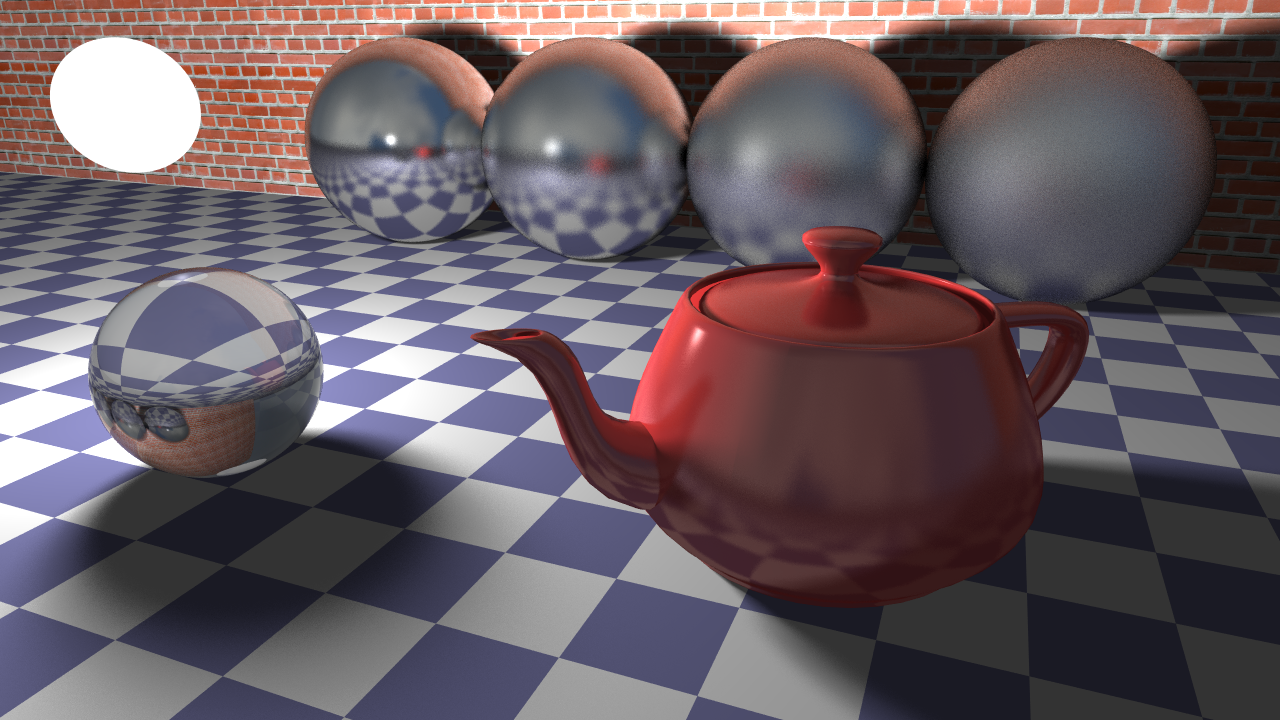
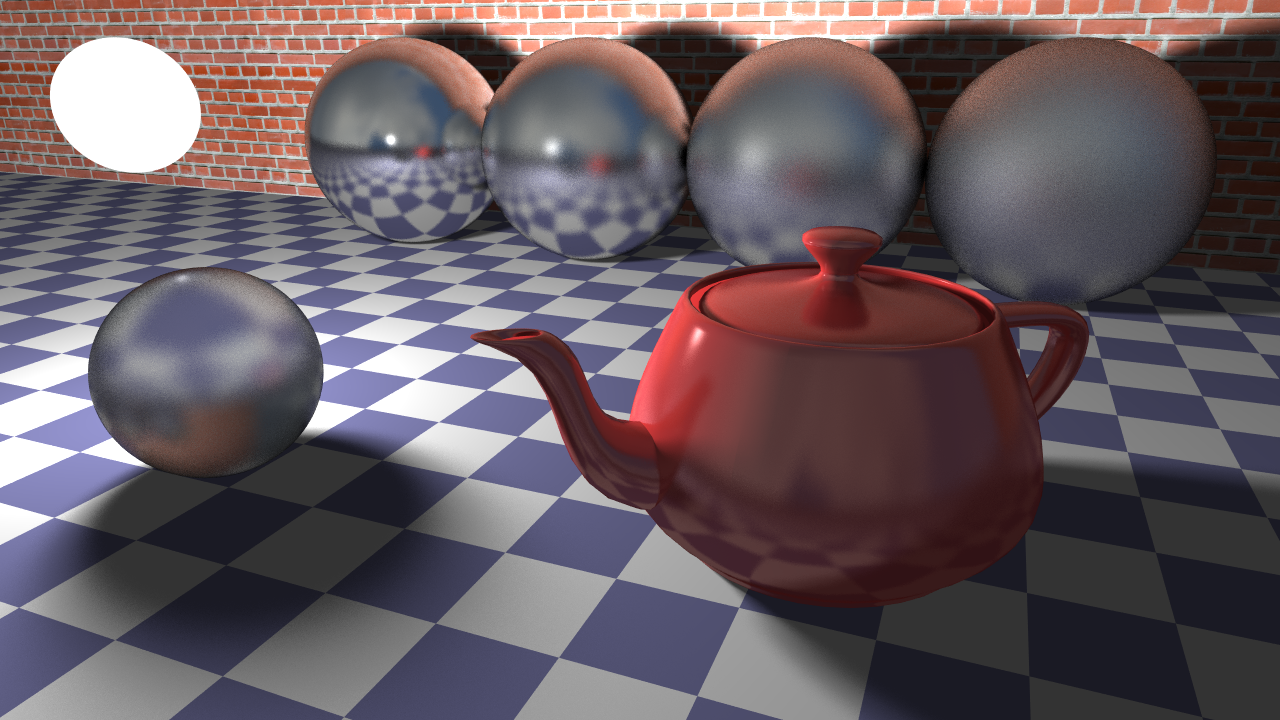
Finished refraction glossiness

Changed region(s): [[0.0625, 0.3667, 0.25, 0.6722]]

diff --git a/src/materials.cpp b/src/materials.cpp
@@ -7,6 +7,28 @@ namespace
 {
     HaltonSeq<static_cast<int>(16)> haltonSeqPhi{ 2 };
     HaltonSeq<static_cast<int>(16)> haltonSeqTheta{ 3 };
+
+    //Vec3f getGlossyReflectionDir(const ShadeInfo& shadeInfo, float glossiness, const Vec3f& normal)
+    //{
+    //    const float phiOffset{ shadeInfo.RandomFloat() };
+    //    const float thetaOffset{ shadeInfo.RandomFloat() };
+
+    //    Vec3f u, v;
+    //    normal.GetOrthonormals(u, v);
+
+    //    const float phi{ 2.0f * M_PI * fmod(haltonSeqPhi[shadeInfo.CurrentPixelSample()] + phiOffset, 1.0f) };
+    //    const float cosTheta{ pow(fmod(haltonSeqTheta[shadeInfo.CurrentPixelSample()] + thetaOffset, 1.0f), 1.0f / (glossiness + 1.0f)) };
+    //    const float sinTheta{ sqrt(1.0f - cosTheta * cosTheta) };
+
+    //    const float x{ sinTheta * cos(phi) };
+    //    const float y{ sinTheta * sin(phi) };
+    //    const float z{ cosTheta };
+
+    //    const Vec3f hLocal{ x, y, z };
+    //    const Vec3f h{ (x * u) + (y * v) + (z * normal) };
+
+    //    return h * 2 * shadeInfo.V().Dot(h) - shadeInfo.V();
+    //}
 }
 
 
@@ -49,12 +71,13 @@ Color MtlBlinn::Shade(ShadeInfo const &shadeInfo) const
     const float thetaOffset{ shadeInfo.RandomFloat() };
     if (reflection.GetValue().Sum() > 0.0f)
     {
+        // **************
+        // Glossiness ray
+        // **************
         Vec3f u, v;
         normal.GetOrthonormals(u, v);
-        Color accumulatedColor{ 0.0f };
-
-        const float phi{ 2.0f * M_PI * fmod(haltonSeqPhi[0] + phiOffset, 1.0f) };
-        const float cosTheta{ pow(fmod(haltonSeqTheta[0] + thetaOffset, 1.0f), 1.0f / (glossiness.GetValue() + 1.0f)) };
+        const float phi{ 2.0f * M_PI * fmod(haltonSeqPhi[shadeInfo.CurrentPixelSample()] + phiOffset, 1.0f) };
+        const float cosTheta{ pow(fmod(haltonSeqTheta[shadeInfo.CurrentPixelSample()] + thetaOffset, 1.0f), 1.0f / (glossiness.GetValue() + 1.0f)) };
         const float sinTheta{ sqrt(1.0f - cosTheta * cosTheta) };
 
         const float x{ sinTheta * cos(phi) };
@@ -84,25 +107,44 @@ Color MtlBlinn::Shade(ShadeInfo const &shadeInfo) const
     if (refraction.GetValue().Sum() > 0.0f)
     {
         const Vec3f N{ shadeInfo.IsFront() ? normal : -normal };
-        const float viewDotN{ shadeInfo.V().Dot(N) };
+
+        Vec3f u, v;
+        N.GetOrthonormals(u, v);
+        float dist;
+        const float phi{ 2.0f * M_PI * fmod(haltonSeqPhi[shadeInfo.CurrentPixelSample()] + phiOffset, 1.0f) };
+        const float cosTheta{ pow(fmod(haltonSeqTheta[shadeInfo.CurrentPixelSample()] + thetaOffset, 1.0f), 1.0f / (glossiness.GetValue() + 1.0f)) };
+        const float sinTheta{ sqrt(1.0f - cosTheta * cosTheta) };
+
+        const float x{ sinTheta * cos(phi) };
+        const float y{ sinTheta * sin(phi) };
+        const float z{ cosTheta };
+
+        const Vec3f hLocal{ x, y, z };
+        const Vec3f h{ (x * u) + (y * v) + (z * N) };
+
+        const float viewDotH{ shadeInfo.V().Dot(h) };
+        //const float viewDotN{ shadeInfo.V().Dot(N) };
 
         const float refractionRatio{ shadeInfo.IsFront() ? 1.0f / ior : ior };
-        const float cosThetaRefractionSquared{ 1.0f - pow(refractionRatio, 2) * (1.0f - pow(viewDotN, 2)) };
+        const float cosThetaRefractionSquared{ 1.0f - pow(refractionRatio, 2) * (1.0f - pow(viewDotH, 2)) };
+        //const float cosThetaRefractionSquared{ 1.0f - pow(refractionRatio, 2) * (1.0f - pow(viewDotN, 2)) };
 
         // Total internal reflection
         if (cosThetaRefractionSquared < 0.0f)
         { 
-            const Vec3f perfectReflectionDir{ N * 2 * viewDotN - shadeInfo.V() };
-            const Ray reflectionRay{ shadeInfo.P() + perfectReflectionDir * 0.0002f, perfectReflectionDir };
+            const Vec3f reflectionDir{ h * 2 * viewDotH - shadeInfo.V() };
+            if (reflectionDir.Dot(N) <= 0.0f)
+                return finalColor;
+            const Ray reflectionRay{ shadeInfo.P() + reflectionDir * 0.0002f, reflectionDir };
 
             float dist;
             Color colorFromReflection{ shadeInfo.TraceSecondaryRay(reflectionRay, dist) * refraction.GetValue() };
-            const float absorptionRed{ exp(-absorption[0] * dist) };
-            const float absorptionGreen{ exp(-absorption[1] * dist) };
-            const float absorptionBlue{ exp(-absorption[2] * dist) };
-            colorFromReflection[0] *= absorptionRed;
-            colorFromReflection[1] *= absorptionGreen;
-            colorFromReflection[2] *= absorptionBlue;
+            //const float absorptionRed{ exp(-absorption[0] * dist) };
+            //const float absorptionGreen{ exp(-absorption[1] * dist) };
+            //const float absorptionBlue{ exp(-absorption[2] * dist) };
+            //colorFromReflection[0] *= absorptionRed;
+            //colorFromReflection[1] *= absorptionGreen;
+            //colorFromReflection[2] *= absorptionBlue;
             finalColor += colorFromReflection;
 
             return finalColor;
@@ -110,14 +152,26 @@ Color MtlBlinn::Shade(ShadeInfo const &shadeInfo) const
 
         // Fresnel
         const float fresnelRatio{ pow((1 - ior) / (1 + ior), 2) };
-        const float fresnelReflectionAmount{ fresnelRatio + (1 - fresnelRatio) * pow(1 - viewDotN, 5) };
-        const Vec3f perfectReflectionDir{ N * 2 * viewDotN - shadeInfo.V() };
-        const Ray reflectionRay{ shadeInfo.P() + perfectReflectionDir * 0.0002f, perfectReflectionDir };
-        float dist;
-        const Color colorFromReflection{ shadeInfo.TraceSecondaryRay(reflectionRay, dist) };
+        const float fresnelReflectionAmount{ fresnelRatio + (1 - fresnelRatio) * pow(1 - viewDotH, 5) };
+
+        Color colorFromReflection{ 0.0f };
+        const Vec3f reflectionDir{ h * 2 * shadeInfo.V().Dot(h) - shadeInfo.V() };
+        if (reflectionDir.Dot(N) > 0.0f)
+        {
+            const Ray reflectionRay{ shadeInfo.P() + reflectionDir * 0.0002f, reflectionDir };
+            colorFromReflection = shadeInfo.TraceSecondaryRay(reflectionRay, dist) * refraction.GetValue();
+        }
+
         finalColor += colorFromReflection * fresnelReflectionAmount;
 
-        const Vec3f refractionDir{ -refractionRatio * shadeInfo.V() - (sqrt(cosThetaRefractionSquared) - refractionRatio * viewDotN) * N };
+        //const Vec3f perfectReflectionDir{ N * 2 * viewDotN - shadeInfo.V() };
+        //const Ray reflectionRay{ shadeInfo.P() + perfectReflectionDir * 0.0002f, perfectReflectionDir };
+
+        //float dist;
+        //const Color colorFromReflection{ shadeInfo.TraceSecondaryRay(reflectionRay, dist) };
+        //finalColor += colorFromReflection * fresnelReflectionAmount;
+
+        const Vec3f refractionDir{ -refractionRatio * shadeInfo.V() - (sqrt(cosThetaRefractionSquared) - refractionRatio * viewDotH) * h };
         Ray refractionRay{ shadeInfo.P() + refractionDir * 0.0002f, refractionDir };
         Color colorFromRefraction{ shadeInfo.TraceSecondaryRay(refractionRay, dist) * refraction.GetValue() };
         const float absorptionRed{ exp(-absorption[0] * dist) };

diff --git a/src/main.cpp b/src/main.cpp
@@ -210,6 +210,7 @@ void threadRenderTiles()
 
                     HitInfo hitInfo{};
                     ShadeInfo sInfo{ renderer.GetScene().lights, renderer.GetScene().environment, tileThreads::rng };
+                    sInfo.SetPixelSample(i);
                     if (renderer.TraceRay(worldRay, hitInfo))
                     {
                         sInfo.SetHit(worldRay, hitInfo);
